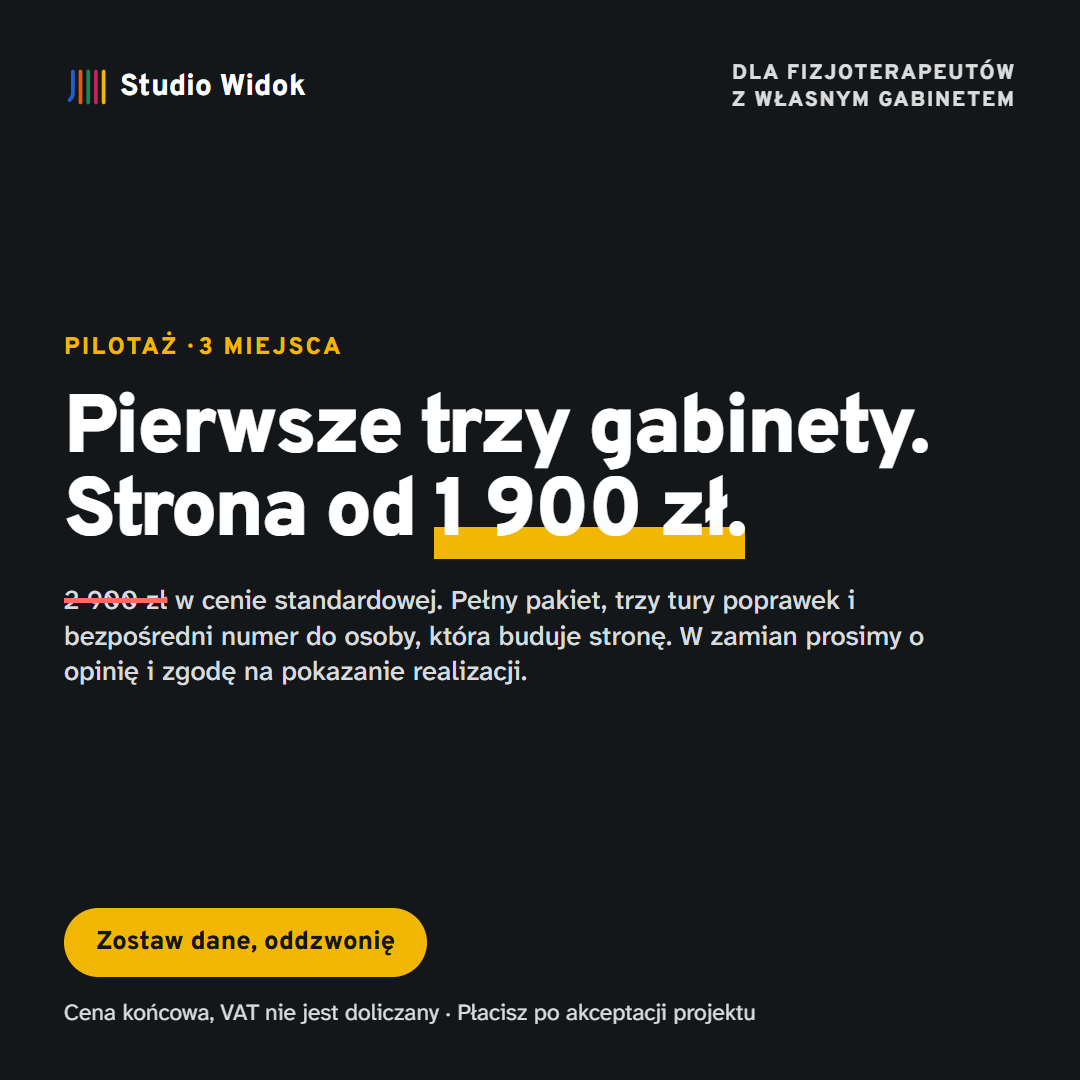
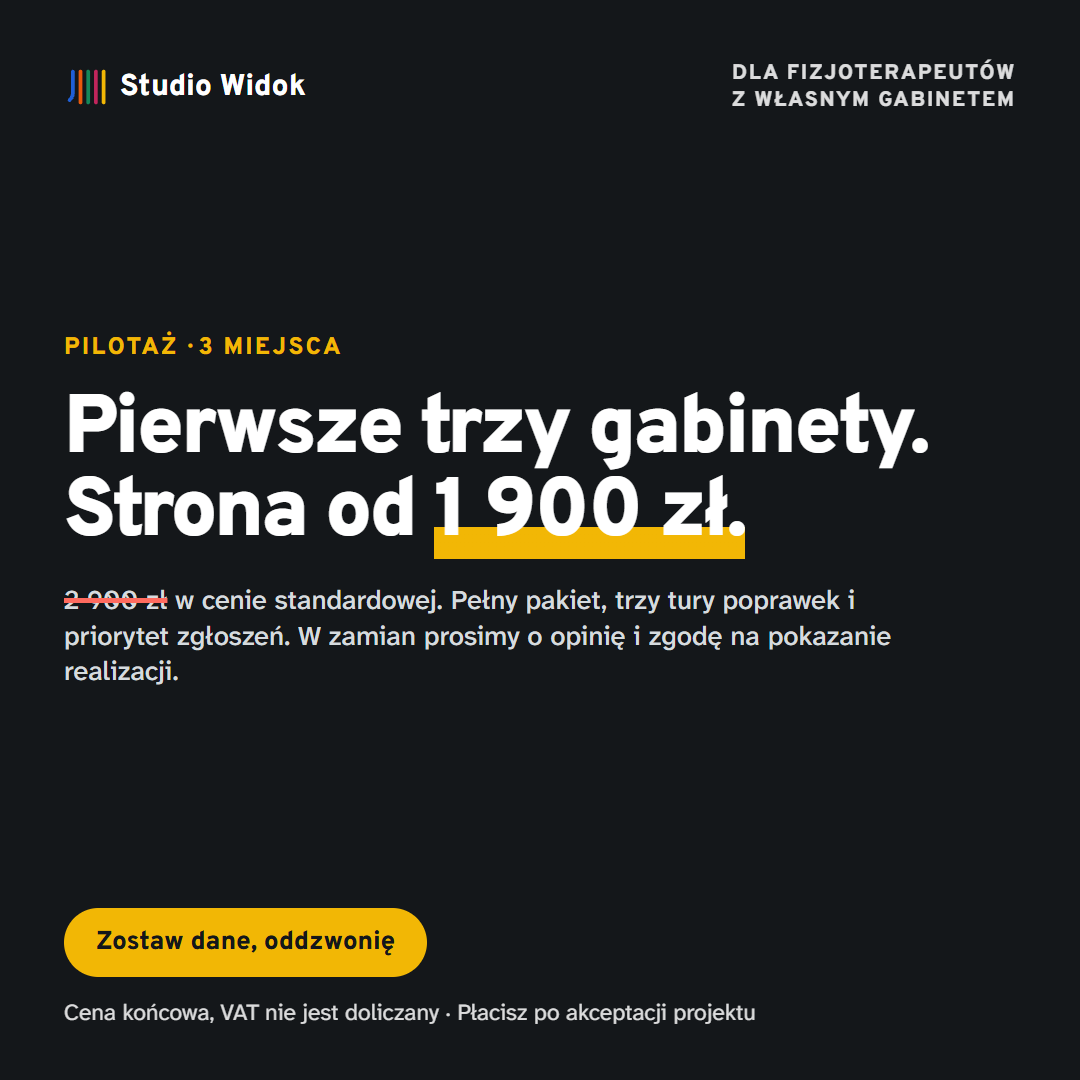
Bez 'bezpośredniego numeru' jako korzyści: kontakt do osoby budującej stronę dostaje każdy klient

Changed region(s): [[0.0611, 0.5806, 0.8556, 0.6417]]

diff --git a/assets/js/konfigurator.js b/assets/js/konfigurator.js
@@ -8,7 +8,7 @@
     /* KONFIGURACJA. Uzupełnij przed pierwszym użyciem. Puste pola pokazują się w umowie jako żółte „do uzupełnienia”. */
     var KONF = {
       zatwierdzona: true, /* wzór przejrzany 21.10.2026 (przegląd własny, bez prawnika); znak PROJEKT znika dopiero, gdy uzupełnisz adres Wykonawcy poniżej */
-      wersja: 'SW-2026-10-v5',
+      wersja: 'SW-2026-10-v6',
       wykonawca: { nazwa: 'Studio Widok (Nikodem Szefliński, osoba fizyczna prowadząca działalność nierejestrowaną)', nip: 'brak (działalność nierejestrowana)', adres: '' },
       email: 'kontakt@studio-widok.pl',
       telefon: '783 480 341',
@@ -223,7 +223,7 @@
       if (S.pilot) {
         h += '<h2>§10. Pilotaż pierwszych klientów</h2>' + ust([
           'Zamawiający uczestniczy w **pilotażu pierwszych klientów**: Wykonawca wdraża Strony pierwszym trzem klientom po obniżonej cenie wdrożenia. Cena wdrożenia w tej umowie wynosi {CENA_WDR} zamiast ceny standardowej {CENA_STD}. Cena utrzymania nie jest obniżona.',
-          'W ramach pilotażu, ponad zakres pakietu, Wykonawca zapewnia: (a) **trzy tury poprawek** projektu graficznego zamiast dwóch; (b) przez pierwsze trzy miesiące od uruchomienia Strony priorytet w obsłudze zgłoszeń Zamawiającego i bezpośredni numer telefonu do osoby, która zbudowała Stronę (Wykonawca dokłada starań, żeby odpowiedzieć w ciągu jednego dnia roboczego); (c) współtworzenie rozwiązania: Wykonawca traktuje priorytetowo uwagi i inicjatywy Zamawiającego dotyczące Strony i systemu rezerwacji i dokłada starań, żeby uwzględnić je przy ich dalszym rozwoju (decyzje o zakresie i kolejności rozwoju należą do Wykonawcy).',
+          'W ramach pilotażu, ponad zakres pakietu, Wykonawca zapewnia: (a) **trzy tury poprawek** projektu graficznego zamiast dwóch; (b) przez pierwsze trzy miesiące od uruchomienia Strony priorytet w obsłudze zgłoszeń Zamawiającego (Wykonawca dokłada starań, żeby odpowiedzieć w ciągu jednego dnia roboczego); (c) współtworzenie rozwiązania: Wykonawca traktuje priorytetowo uwagi i inicjatywy Zamawiającego dotyczące Strony i systemu rezerwacji i dokłada starań, żeby uwzględnić je przy ich dalszym rozwoju (decyzje o zakresie i kolejności rozwoju należą do Wykonawcy).',
           'W zamian Zamawiający: (a) przez pierwsze trzy miesiące od uruchomienia Strony odbywa z Wykonawcą krótką rozmowę (do 15 minut) raz na dwa tygodnie o działaniu Strony i systemu rezerwacji; (b) przekazuje Wykonawcy opinię o współpracy i o działaniu Strony; (c) zgadza się, aby Wykonawca wskazał Zamawiającego i Stronę (nazwę gabinetu i adres Strony) jako swoją realizację w materiałach o swojej działalności, w tym na swojej stronie internetowej i w ofertach; (d) udostępnia Wykonawcy zbiorcze liczby dotyczące rezerwacji dokonanych przez Stronę (na przykład liczbę rezerwacji w miesiącu), wyłącznie w celu opisania efektów w realizacji, bez żadnych danych pacjentów.',
           'Wykonawca nie publikuje opinii Zamawiającego bez uzgodnienia jej treści z Zamawiającym, nie używa danych pacjentów ani żadnych informacji pozwalających zidentyfikować pacjenta i nie przypisuje Zamawiającemu wyników, których ten nie potwierdził.',
           'Zamawiający może w każdej chwili cofnąć zgodę z ust. 3 lit. c e-mailem. Wykonawca usunie wtedy wskazanie realizacji ze swoich materiałów w ciągu 14 dni. Cofnięcie zgody nie obliguje Zamawiającego do dopłaty do ceny wdrożenia ani nie wpływa na pozostałe postanowienia umowy.',

diff --git a/dla-fizjoterapeutow.html b/dla-fizjoterapeutow.html
@@ -187,7 +187,7 @@
           <li><b>Ceny końcowe.</b> Nie jesteśmy płatnikiem VAT, więc kwoty są kwotami do zapłaty.</li>
           <li><b>Płacisz po akceptacji projektu.</b> Rachunek za wdrożenie wystawiamy po akceptacji, a strona rusza po wpłacie.</li>
           <li><b>Rezygnujesz w każdej chwili.</b> Dostajesz pliki strony i systemu, a całość możesz przenieść na własny koszt.</li>
-          <li><b>W pilotażu dodatkowo:</b> trzecia tura poprawek, priorytet zgłoszeń i bezpośredni numer do osoby, która buduje Twoją stronę. W zamian: rozmowa raz na dwa tygodnie przez trzy miesiące, opinia i zgoda na wskazanie strony jako realizacji (zgodę możesz cofnąć bez dopłaty).</li>
+          <li><b>W pilotażu dodatkowo:</b> trzecia tura poprawek i priorytet zgłoszeń. W zamian: rozmowa raz na dwa tygodnie przez trzy miesiące, opinia i zgoda na wskazanie strony jako realizacji (zgodę możesz cofnąć bez dopłaty).</li>
         </ul>
         <p class="kp-pilot__pelny" data-pilot-pelny hidden>Pilotaż jest już pełny. Zostaw dane, a przygotujemy aktualną ofertę.</p>
         <div class="ofs-cta">
@@ -247,7 +247,7 @@
           <p class="ofr-kicker">Porozmawiajmy</p>
           <h2 class="ofr-h2">Zostaw dane, oddzwonię</h2>
           <p class="ofr-lead">Zwykle w ciągu jednego dnia roboczego. Rozmowa trwa kilkanaście minut, bez zobowiązań. Pokażę demo i powiem wprost, czy to ma sens w Twoim gabinecie.</p>
-          <p class="kp-kontakt__bezp">Wolisz zadzwonić? <a href="tel:+48783480341" data-lp="tel">783 480 341</a>, odbiera osoba, która buduje Twoją stronę.</p>
+          <p class="kp-kontakt__bezp">Wolisz zadzwonić? <a href="tel:+48783480341" data-lp="tel">783 480 341</a>.</p>
         </div>
 
         <div class="kp-formwrap">
@@ -321,6 +321,6 @@
   </script>
   <script src="assets/js/chmura-config.js?v=2"></script>
   <script src="assets/js/odbiornik.js?v=15"></script>
-  <script src="assets/js/kampania.js?v=7" defer></script>
+  <script src="assets/js/kampania.js?v=8" defer></script>
 </body>
 </html>

diff --git a/oferta-strona.html b/oferta-strona.html
@@ -502,7 +502,6 @@
               <p class="ofs-pilot__dla-h">To dla Ciebie, jeśli:</p>
               <ul class="ofs-pilot__dla-lista">
                 <li>chcesz, żeby pacjenci umawiali się sami przez stronę, a nie tylko telefonicznie,</li>
-                <li>cenisz bezpośredni kontakt z osobą, która buduje Twoją stronę,</li>
                 <li>chcesz mieć wpływ na to, jak rozwijamy system, i zobaczyć swoje uwagi wprowadzone w życie,</li>
                 <li>możesz poświęcić kilkanaście minut co dwa tygodnie przez trzy miesiące,</li>
                 <li>nie masz nic przeciwko temu, żeby Twój gabinet został wskazany jako realizacja.</li>
@@ -520,7 +519,7 @@
                   <li>Pełny pakiet, taki sam jak w ofercie, bez okrojonych funkcji</li>
                   <li>Trzecią turę poprawek projektu graficznego w cenie (w standardzie są dwie)</li>
                   <li>Współtworzenie rozwiązania: Twoje uwagi i inicjatywy traktujemy priorytetowo i mają realny wpływ na to, jak rozwijamy system</li>
-                  <li>Priorytet zgłoszeń i bezpośredni numer do osoby, która buduje Twoją stronę, przez pierwsze trzy miesiące</li>
+                  <li>Priorytet zgłoszeń przez pierwsze trzy miesiące</li>
                 </ul>
               </div>
               <div>

diff --git a/umowa.html b/umowa.html
@@ -56,6 +56,6 @@
 
   <script src="assets/js/chmura-config.js?v=2"></script>
   <script src="assets/js/odbiornik.js?v=15"></script>
-  <script src="assets/js/konfigurator.js?v=35" defer></script>
+  <script src="assets/js/konfigurator.js?v=36" defer></script>
 </body>
 </html>
